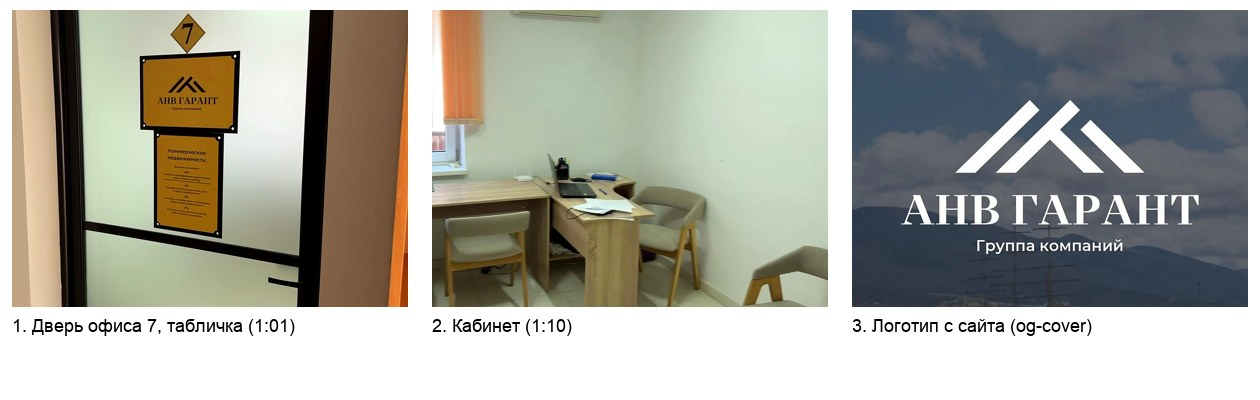
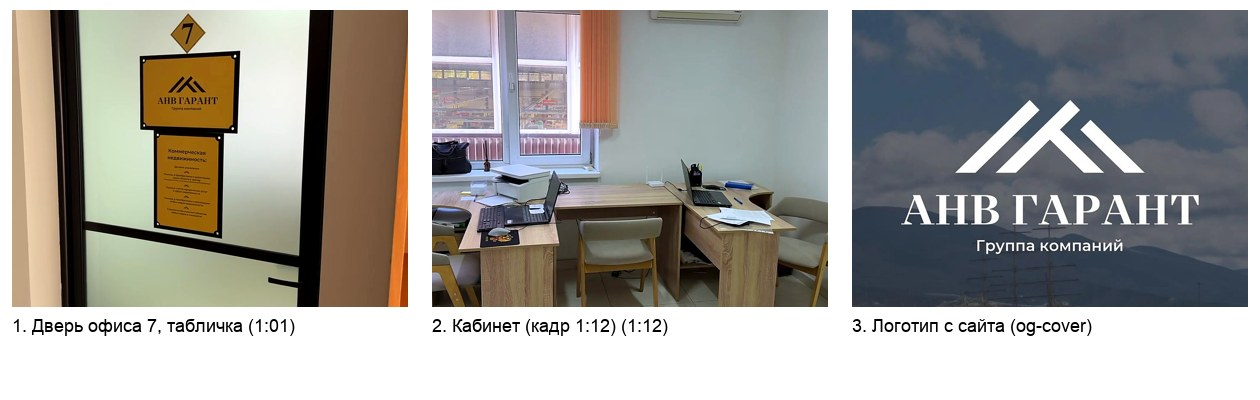
Фото кабинета: резкий кадр 1:12 вместо смазанного

Changed region(s): [[0.3405, 0.0, 0.681, 0.84]]

diff --git a/фото/для карточек/README.md b/фото/для карточек/README.md
@@ -8,7 +8,7 @@
 | Файл | Что на фото | Источник |
 |---|---|---|
 | `gelendzhik-01-dver.jpg` | дверь офиса 7, табличка и логотип | видео, 1:01 |
-| `gelendzhik-02-kabinet.jpg` | кабинет | видео, 1:10 |
+| `gelendzhik-02-kabinet.jpg` | кабинет | видео, 1:12 |
 | `gelendzhik-03-logo.jpg` | логотип «АНВ Гарант» на фоне моря | `og-cover.jpg` с сайта |
 
 Размер 1200×900 (4:3).
@@ -33,6 +33,11 @@
 
 Кабинет в видео один, поэтому он один и в наборе: резать его на три кадра —
 дубли, как было в первой версии.
+
+Кадр кабинета выбран по резкости: перебраны все кадры с 64-й по 81-ю секунду,
+лучшие — 72–75 с. Взята 72,4 с (в кадре окно и рабочие места), дальше баланс
+белого, шумодав и апскейл до 1200×900. Кадр с 70-й секунды, который стоял
+раньше, был смазан.
 
 ## Что убрали
 
